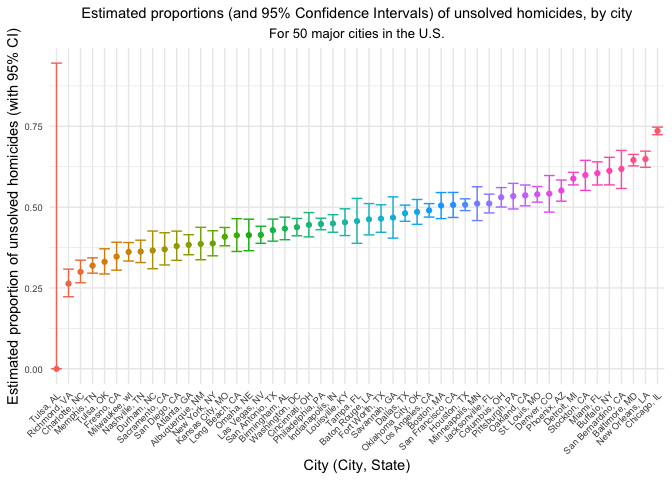
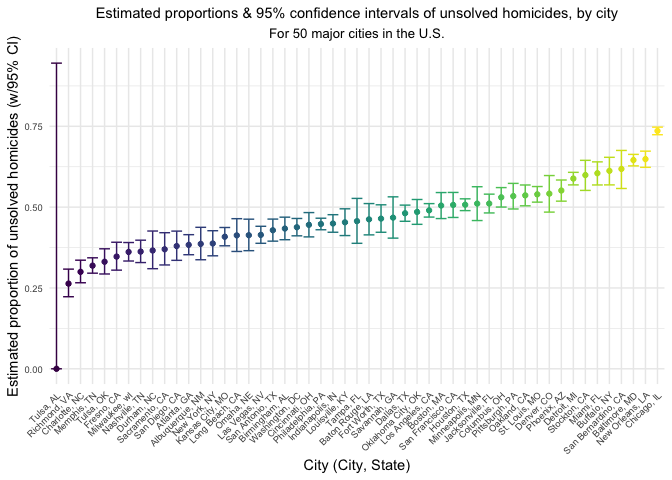
Checking the knit document for HW5

diff --git a/p8105_hw5_sjz2120.md b/p8105_hw5_sjz2120.md
@@ -5,22 +5,224 @@ Sophie Zhang (sjz2120)
 
 # Problem 1
 
-This zip file contains data from a longitudinal study that included a
-control arm and an experimental arm. Data for each participant is
-included in a separate file, and file names include the subject ID and
-arm.
+In the “data” folder in this R Project, there are 20 .csv files
+containing data from a longitudinal study that included a control arm
+and an experimental arm.
 
-Create a tidy dataframe containing data from all participants, including
-the subject ID, arm, and observations over time:
+Below I’ve created a tidy data frame `exp_df` containing data from all
+participants in the 20 .csv files. To do so, I used the list.files
+function, and iterated over file names to read in data for each subject
+using purrr::map before saving the result as a new variable in the
+dataframe. I then tidied the data further, so the final cleaned `exp_df`
+dataframe includes the subject ID, arm, and observations over time.
 
-Start with a dataframe containing all file names; the list.files
-function will help Iterate over file names and read in data for each
-subject using purrr::map and saving the result as a new variable in the
-dataframe Tidy the result; manipulate file names to include control arm
-and subject ID, make sure weekly observations are “tidy”, and do any
-other tidying that’s necessary Make a spaghetti plot showing
-observations on each subject over time, and comment on differences
-between groups.
+### Creating a tidy dataframe for the experimental data
+
+``` r
+exp_df =
+  tibble(
+    files = list.files(path = "data/", full.names = TRUE)
+  ) %>%
+  mutate(data = purrr::map(.x = files, read_csv)) %>%
+  unnest(data) %>%
+  mutate(files = str_replace(files, "data//", ""),
+         files = str_replace(files, ".csv", "")) %>%
+  separate(files, into = c("arm", "subject_id"), sep = "_") %>%
+  pivot_longer(
+    week_1:week_8,
+    names_to = "week",
+    names_prefix = "week_",
+    values_to = "observation") %>%
+  mutate(week = as.numeric(week)) %>%
+  mutate(arm = str_replace(arm, "con", "control"),
+         arm = str_replace(arm, "exp", "experimental"))
+```
+
+    ## Rows: 1 Columns: 8
+    ## ── Column specification ────────────────────────────────────────────────────────
+    ## Delimiter: ","
+    ## dbl (8): week_1, week_2, week_3, week_4, week_5, week_6, week_7, week_8
+    ## 
+    ## ℹ Use `spec()` to retrieve the full column specification for this data.
+    ## ℹ Specify the column types or set `show_col_types = FALSE` to quiet this message.
+    ## Rows: 1 Columns: 8
+    ## ── Column specification ────────────────────────────────────────────────────────
+    ## Delimiter: ","
+    ## dbl (8): week_1, week_2, week_3, week_4, week_5, week_6, week_7, week_8
+    ## 
+    ## ℹ Use `spec()` to retrieve the full column specification for this data.
+    ## ℹ Specify the column types or set `show_col_types = FALSE` to quiet this message.
+    ## Rows: 1 Columns: 8
+    ## ── Column specification ────────────────────────────────────────────────────────
+    ## Delimiter: ","
+    ## dbl (8): week_1, week_2, week_3, week_4, week_5, week_6, week_7, week_8
+    ## 
+    ## ℹ Use `spec()` to retrieve the full column specification for this data.
+    ## ℹ Specify the column types or set `show_col_types = FALSE` to quiet this message.
+    ## Rows: 1 Columns: 8
+    ## ── Column specification ────────────────────────────────────────────────────────
+    ## Delimiter: ","
+    ## dbl (8): week_1, week_2, week_3, week_4, week_5, week_6, week_7, week_8
+    ## 
+    ## ℹ Use `spec()` to retrieve the full column specification for this data.
+    ## ℹ Specify the column types or set `show_col_types = FALSE` to quiet this message.
+    ## Rows: 1 Columns: 8
+    ## ── Column specification ────────────────────────────────────────────────────────
+    ## Delimiter: ","
+    ## dbl (8): week_1, week_2, week_3, week_4, week_5, week_6, week_7, week_8
+    ## 
+    ## ℹ Use `spec()` to retrieve the full column specification for this data.
+    ## ℹ Specify the column types or set `show_col_types = FALSE` to quiet this message.
+    ## Rows: 1 Columns: 8
+    ## ── Column specification ────────────────────────────────────────────────────────
+    ## Delimiter: ","
+    ## dbl (8): week_1, week_2, week_3, week_4, week_5, week_6, week_7, week_8
+    ## 
+    ## ℹ Use `spec()` to retrieve the full column specification for this data.
+    ## ℹ Specify the column types or set `show_col_types = FALSE` to quiet this message.
+    ## Rows: 1 Columns: 8
+    ## ── Column specification ────────────────────────────────────────────────────────
+    ## Delimiter: ","
+    ## dbl (8): week_1, week_2, week_3, week_4, week_5, week_6, week_7, week_8
+    ## 
+    ## ℹ Use `spec()` to retrieve the full column specification for this data.
+    ## ℹ Specify the column types or set `show_col_types = FALSE` to quiet this message.
+    ## Rows: 1 Columns: 8
+    ## ── Column specification ────────────────────────────────────────────────────────
+    ## Delimiter: ","
+    ## dbl (8): week_1, week_2, week_3, week_4, week_5, week_6, week_7, week_8
+    ## 
+    ## ℹ Use `spec()` to retrieve the full column specification for this data.
+    ## ℹ Specify the column types or set `show_col_types = FALSE` to quiet this message.
+    ## Rows: 1 Columns: 8
+    ## ── Column specification ────────────────────────────────────────────────────────
+    ## Delimiter: ","
+    ## dbl (8): week_1, week_2, week_3, week_4, week_5, week_6, week_7, week_8
+    ## 
+    ## ℹ Use `spec()` to retrieve the full column specification for this data.
+    ## ℹ Specify the column types or set `show_col_types = FALSE` to quiet this message.
+    ## Rows: 1 Columns: 8
+    ## ── Column specification ────────────────────────────────────────────────────────
+    ## Delimiter: ","
+    ## dbl (8): week_1, week_2, week_3, week_4, week_5, week_6, week_7, week_8
+    ## 
+    ## ℹ Use `spec()` to retrieve the full column specification for this data.
+    ## ℹ Specify the column types or set `show_col_types = FALSE` to quiet this message.
+    ## Rows: 1 Columns: 8
+    ## ── Column specification ────────────────────────────────────────────────────────
+    ## Delimiter: ","
+    ## dbl (8): week_1, week_2, week_3, week_4, week_5, week_6, week_7, week_8
+    ## 
+    ## ℹ Use `spec()` to retrieve the full column specification for this data.
+    ## ℹ Specify the column types or set `show_col_types = FALSE` to quiet this message.
+    ## Rows: 1 Columns: 8
+    ## ── Column specification ────────────────────────────────────────────────────────
+    ## Delimiter: ","
+    ## dbl (8): week_1, week_2, week_3, week_4, week_5, week_6, week_7, week_8
+    ## 
+    ## ℹ Use `spec()` to retrieve the full column specification for this data.
+    ## ℹ Specify the column types or set `show_col_types = FALSE` to quiet this message.
+    ## Rows: 1 Columns: 8
+    ## ── Column specification ────────────────────────────────────────────────────────
+    ## Delimiter: ","
+    ## dbl (8): week_1, week_2, week_3, week_4, week_5, week_6, week_7, week_8
+    ## 
+    ## ℹ Use `spec()` to retrieve the full column specification for this data.
+    ## ℹ Specify the column types or set `show_col_types = FALSE` to quiet this message.
+    ## Rows: 1 Columns: 8
+    ## ── Column specification ────────────────────────────────────────────────────────
+    ## Delimiter: ","
+    ## dbl (8): week_1, week_2, week_3, week_4, week_5, week_6, week_7, week_8
+    ## 
+    ## ℹ Use `spec()` to retrieve the full column specification for this data.
+    ## ℹ Specify the column types or set `show_col_types = FALSE` to quiet this message.
+    ## Rows: 1 Columns: 8
+    ## ── Column specification ────────────────────────────────────────────────────────
+    ## Delimiter: ","
+    ## dbl (8): week_1, week_2, week_3, week_4, week_5, week_6, week_7, week_8
+    ## 
+    ## ℹ Use `spec()` to retrieve the full column specification for this data.
+    ## ℹ Specify the column types or set `show_col_types = FALSE` to quiet this message.
+    ## Rows: 1 Columns: 8
+    ## ── Column specification ────────────────────────────────────────────────────────
+    ## Delimiter: ","
+    ## dbl (8): week_1, week_2, week_3, week_4, week_5, week_6, week_7, week_8
+    ## 
+    ## ℹ Use `spec()` to retrieve the full column specification for this data.
+    ## ℹ Specify the column types or set `show_col_types = FALSE` to quiet this message.
+    ## Rows: 1 Columns: 8
+    ## ── Column specification ────────────────────────────────────────────────────────
+    ## Delimiter: ","
+    ## dbl (8): week_1, week_2, week_3, week_4, week_5, week_6, week_7, week_8
+    ## 
+    ## ℹ Use `spec()` to retrieve the full column specification for this data.
+    ## ℹ Specify the column types or set `show_col_types = FALSE` to quiet this message.
+    ## Rows: 1 Columns: 8
+    ## ── Column specification ────────────────────────────────────────────────────────
+    ## Delimiter: ","
+    ## dbl (8): week_1, week_2, week_3, week_4, week_5, week_6, week_7, week_8
+    ## 
+    ## ℹ Use `spec()` to retrieve the full column specification for this data.
+    ## ℹ Specify the column types or set `show_col_types = FALSE` to quiet this message.
+    ## Rows: 1 Columns: 8
+    ## ── Column specification ────────────────────────────────────────────────────────
+    ## Delimiter: ","
+    ## dbl (8): week_1, week_2, week_3, week_4, week_5, week_6, week_7, week_8
+    ## 
+    ## ℹ Use `spec()` to retrieve the full column specification for this data.
+    ## ℹ Specify the column types or set `show_col_types = FALSE` to quiet this message.
+    ## Rows: 1 Columns: 8
+    ## ── Column specification ────────────────────────────────────────────────────────
+    ## Delimiter: ","
+    ## dbl (8): week_1, week_2, week_3, week_4, week_5, week_6, week_7, week_8
+    ## 
+    ## ℹ Use `spec()` to retrieve the full column specification for this data.
+    ## ℹ Specify the column types or set `show_col_types = FALSE` to quiet this message.
+
+``` r
+exp_df
+```
+
+    ## # A tibble: 160 × 4
+    ##    arm     subject_id  week observation
+    ##    <chr>   <chr>      <dbl>       <dbl>
+    ##  1 control 01             1        0.2 
+    ##  2 control 01             2       -1.31
+    ##  3 control 01             3        0.66
+    ##  4 control 01             4        1.96
+    ##  5 control 01             5        0.23
+    ##  6 control 01             6        1.09
+    ##  7 control 01             7        0.05
+    ##  8 control 01             8        1.94
+    ##  9 control 02             1        1.13
+    ## 10 control 02             2       -0.88
+    ## # … with 150 more rows
+
+### Spaghetti plot showing observations on each subject over time
+
+Now, let’s make a spaghetti plot showing observations on each subject
+over time so we can see if there are differences between the control vs
+experimental group.
+
+``` r
+exp_plot = exp_df %>%
+  ggplot(aes(x = week, y = observation)) +
+    geom_path(aes(color = arm, group = as.factor(subject_id)), alpha = 0.5) +
+    labs(title = "",
+         subtitle = "Experimental Data Over Time",
+         x = "Week",
+         y = "Measurement")
+
+exp_plot
+```
+
+![](p8105_hw5_sjz2120_files/figure-gfm/spaghetti-plot-expdf-1.png)<!-- -->
+
+From the spaghetti plot of experimental data over time, we see that
+there is indeed a noticeable difference between the control and
+experimental arms of the study. In particular, we notice that the
+control arms seem to have on average lower measurements over time
+compared to the experimental arm.
 
 # Problem 2
 
@@ -224,17 +426,17 @@ homicides.
 homicides_city_plot = unsolved_prop_all %>%
   mutate(city_state = fct_reorder(city_state, estimate_prop)) %>%
   ggplot(aes(x = city_state, y = estimate_prop, color = city_state)) +
-  geom_point() +
-  geom_errorbar(aes(ymin = conf.low, ymax = conf.high)) +
-  labs(title = "Estimated proportions (and 95% Confidence Intervals) of unsolved homicides, by city",
-       subtitle = "For 50 major cities in the U.S.",
-       x = "City (City, State)",
-       y = "Estimated proportion of unsolved homicides (with 95% CI)") +
-  theme(plot.title = element_text(size = 11, hjust = 0.5),
-        plot.subtitle = element_text(size = 10, hjust = 0.5),
-        axis.text.x = element_text(size = 7, angle = 45, hjust = 1),
-        axis.text.y = element_text(size = 7, hjust = 0.5),
-        legend.position = "none")
+    geom_point() +
+    geom_errorbar(aes(ymin = conf.low, ymax = conf.high)) +
+    labs(title = "Estimated proportions & 95% confidence intervals of unsolved homicides, by city",
+          subtitle = "For 50 major cities in the U.S.",
+          x = "City (City, State)",
+          y = "Estimated proportion of unsolved homicides (w/95% CI)") +
+    theme(plot.title = element_text(size = 11, hjust = 0.5),
+          plot.subtitle = element_text(size = 10, hjust = 0.5),
+          axis.text.x = element_text(size = 7, angle = 45, hjust = 1),
+          axis.text.y = element_text(size = 7, hjust = 0.5),
+          legend.position = "none")
 
 homicides_city_plot
 ```
@@ -311,12 +513,14 @@ mu_simulations =
 ### Plot showing the power of the one-sample t-test
 
 Below is a plot showing the proportion of times the null was rejected
-(the power of the test, in this case when the p-value \< 0.05) on the y
-axis and the true value of μ on the x axis.
+(the power of the test is when the null is rejected rightfully, in this
+case defined when the p-value \< 0.05) on the y axis and the true value
+of μ on the x axis.
 
--   **From the plot below, we see that as the true value of μ (the
-    effect size) increases, the power of the test increases until it
-    plateaus.**
+-   **From the plot below, we see that as the true value of μ increases
+    (i.e. this corresponds to an increase in effect size), the power of
+    the test increases until it plateaus. Therefore, the power of a test
+    increases as the effect size increases**
 
 ``` r
 # Let's create a dataframe called `test_power` based on `mu_simulations` in the previous code chunk, which contains the proportion of times the null was rejected (the power of the test) by mu_value
@@ -325,18 +529,20 @@ test_power = mu_simulations %>%
   summarise(reject_null_prop = sum(reject_null) / 5000)
 
 # Now we can create a plot showing the power of the test at each mu value from μ={0, 1, 2, 3, 4, 5, 6}
-test_power %>%
+test_power_plot = test_power %>%
   ggplot(aes(x = mu_value, y = reject_null_prop)) +
-  geom_point(alpha = 0.5, size = 3) +
-  geom_smooth(alpha = 0.5) +
-  labs(title = "The relationship between effect size and power for a one-sample t-test",
-       subtitle = "Based on 5000 simulations for a random normal sample with μ={0, 1, 2, 3, 4, 5, 6}",
-       x = "True population mean (μ)",
-       y = "Proportion of times the null was rejected (Power)")  +
-  theme(plot.title = element_text(size = 11, hjust = 0.5),
+    geom_point(alpha = 0.5, size = 3) +
+    geom_smooth(alpha = 0.5) +
+    labs(title = "The relationship between effect size and power for a one-sample t-test",
+        subtitle = "Based on 5000 simulations for a random normal sample with μ={0, 1, 2, 3, 4, 5, 6}",
+        x = "True population mean (μ)",
+        y = "Proportion of times the null was rejected (Power)")  +
+    theme(plot.title = element_text(size = 15, hjust = 0.5),
         plot.subtitle = element_text(size = 10, hjust = 0.5),
         axis.text.x = element_text(size = 7),
         axis.text.y = element_text(size = 7))
+
+test_power_plot
 ```
 
     ## `geom_smooth()` using method = 'loess' and formula 'y ~ x'
@@ -345,9 +551,66 @@ test_power %>%
 
 ### Plot showing the average estimate μ̂ vs the true value of μ
 
-Make a plot showing the average estimate of μ̂ on the y axis and the true
-value of μ on the x axis. Make a second plot (or overlay on the first)
-the average estimate of μ̂ only in samples for which the null was
-rejected on the y axis and the true value of μ on the x axis. Is the
-sample average of μ̂ across tests for which the null is rejected
-approximately equal to the true value of μ? Why or why not?
+Below is a plot showing the average estimate of μ on the y axis and the
+true value of μ on the x axis, separated into two lines – one for all
+samples and one for only those samples for which the null was rejected.
+
+``` r
+# Let's start by creating two new dataframes `test_estimates_all` and `test_estimates_reject` summarizing the average estimates for the two different groups of samples
+test_estimates_all = mu_simulations %>%
+  group_by(mu_value) %>%
+  summarise(avg_estim_all_samples = mean(estimate))
+
+test_estimates_reject = mu_simulations %>%
+  group_by(mu_value) %>%
+  filter(reject_null == TRUE) %>%
+  summarise(avg_estim_reject_null = mean(estimate))
+
+# Let's combine the above two dataframes into `test_estimates_combine`, so we have the average estimates grouped by true value of mu all in one df, and in a pivot_longer format
+test_estimates_combine =
+  full_join(test_estimates_all, test_estimates_reject, by = "mu_value") %>%
+  pivot_longer(
+    avg_estim_all_samples:avg_estim_reject_null,
+    names_to = "sample",
+    names_prefix = "avg_estim_",
+    values_to = "avg_estim")
+
+# Now we can create a plot comparing the average estimate mean vs. the true population
+estim_true_plot =
+  test_estimates_combine %>%
+  ggplot(aes(x = mu_value, y = avg_estim, group = sample)) +
+    geom_point(aes(color = sample), alpha = 0.5) +
+    geom_smooth(aes(color = sample), alpha = 0.5) +
+    labs(title = "Comparing the average estimate mean (μ^) vs. the true population (μ)",
+         subtitle = "Between all samples and samples where the null is rejected",
+         x = "True population mean (μ)",
+         y = "The average estimate of μ (μ^)") +
+    theme(plot.title = element_text(size = 15, hjust = 0.5),
+        plot.subtitle = element_text(size = 10, hjust = 0.5),
+        axis.text.x = element_text(size = 7),
+        axis.text.y = element_text(size = 7))
+
+estim_true_plot
+```
+
+    ## `geom_smooth()` using method = 'loess' and formula 'y ~ x'
+
+![](p8105_hw5_sjz2120_files/figure-gfm/plot-comparing-estim-true-means-1.png)<!-- -->
+
+#### Describing the plot above
+
+-   From the plot above, we see that the sample average of μ̂ across
+    tests for which the null is rejected is not equal to the true value
+    of μ from around μ = 0 to 4, and instead is larger compared to the
+    true estimated mean (i.e. looking across all samples).
+-   However, when μ = 4 and higher, we see that the sample average of μ̂
+    across tests for which the null is rejected begins to
+    approach/approximately equals the true value of μ.
+    -   This is because as the true value of μ (the effect size)
+        increases, the power of the test also increases. Since the power
+        of the test is the proportion of times the null is rejected, a
+        lower power for smaller μ’s would mean that the test rejects the
+        null less for smaller μ’s.
+    -   This in turn leads to the observed difference between the sample
+        average of μ̂ across tests for which the null is rejected vs. the
+        true value of μ.
